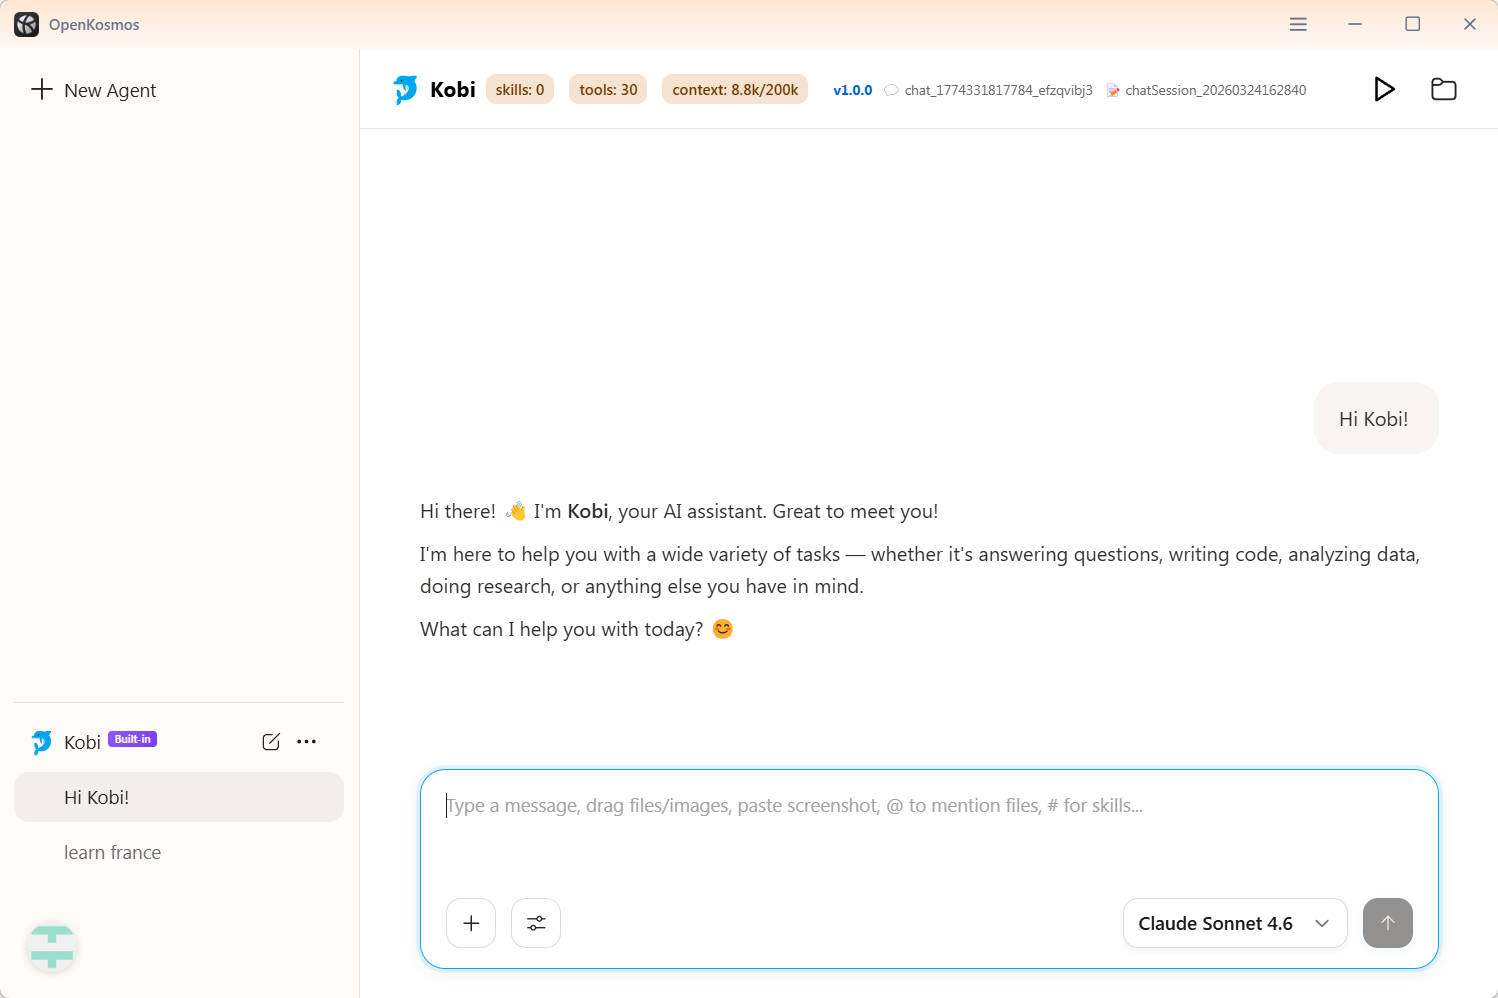
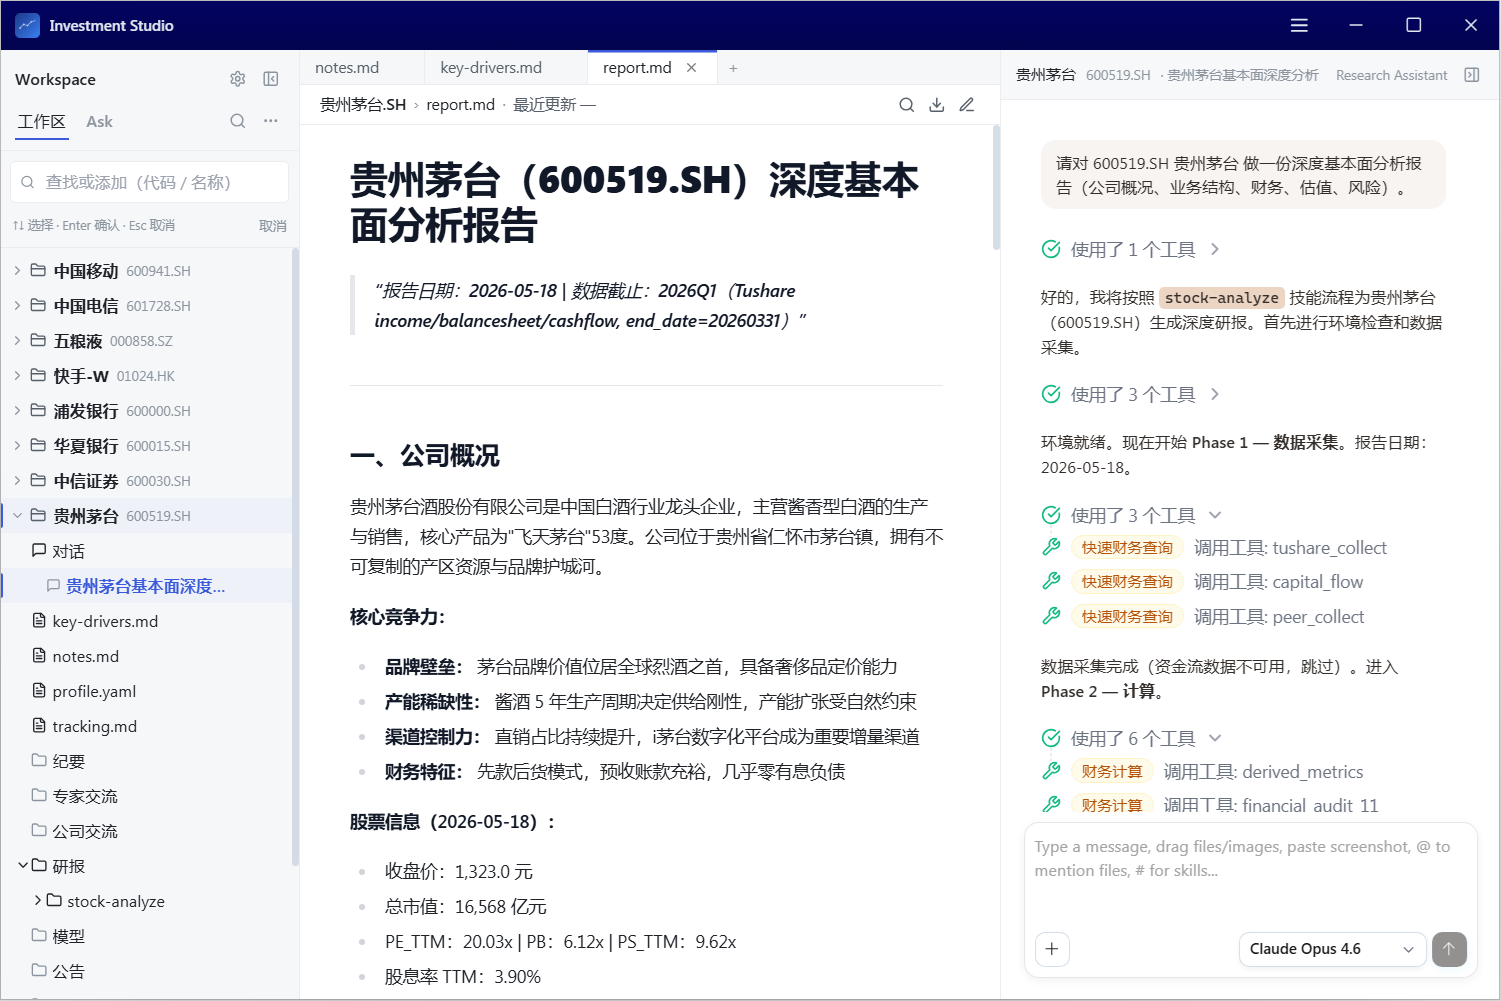
docs: simplify README and refresh screenshot
- Rewrite README to be a concise fork description: highlights, quick start, three-pane workstation overview, slash-command skill table, architecture link, dev/build/test commands, credits.
- Replace OpenKosmos screenshot with the Investment Studio three-pane UI.

diff --git a/README.md b/README.md
@@ -1,211 +1,100 @@
-# OpenKosmos
+# Investment Studio
 
-**OpenKosmos** is a local-first AI Agent Studio that empowers you to create, configure, and run personalized AI agents tailored to your own workflows — with a low-code approach that puts productivity first.
+**AI-powered investment research workstation.** Organize work by *target* (the company you're tracking), not by chat thread. Every target gets a folder on disk and a dedicated AI analyst — **Stella** — who reads, writes, and files your notes for you. Local-first, file-based, MIT-licensed.
 
-It runs entirely on your desktop, provides native access to your local files and system, and connects to the broader AI ecosystem through MCP servers, skills, and multi-model support. Whether you're automating daily tasks, building research assistants, or orchestrating complex multi-step workflows, OpenKosmos gives you a flexible, privacy-respecting platform to get it done.
+![Investment Studio Screenshot](screenshot.png)
 
-![OpenKosmos Screenshot](screenshot.png)
+## Highlights
 
-## ✨ Highlights
+- **Portfolio-first** — Research is organized by target; each target is a real folder you own.
+- **Stella, your AI analyst** — Target-bound chat that writes notes into the right folder automatically.
+- **7 research slash commands** — `/stock-analyze`, `/key-drivers`, `/earnings-review`, and more.
+- **Autosave Markdown editor** — Monaco-powered, `Ctrl+S` / `Ctrl+E` / `Esc`.
+- **Local-first** — Your data is plain files; `git`-able, portable, never locked in.
+- **MCP + multi-model** — Any MCP server; Copilot, OpenAI, Azure, Claude, Gemini, Cohere, Ollama.
+- **Cross-platform** — Windows, macOS, Linux.
 
-- 🏠 **Local-First** — Runs on your machine. Your data stays on your device.
-- 🤖 **Personalized Agents** — Create custom agents with tailored instructions, tools, knowledge bases, and skills — no coding required.
-- 🔌 **MCP Ecosystem** — Connect to any MCP server (stdio/SSE/HTTP) to extend agent capabilities with external tools and data sources.
-- 🧩 **Skills & Context** — Package reusable AI prompt templates as skills; attach knowledge bases for domain-specific context.
-- 🌐 **Multi-Model** — Switch between GitHub Copilot, OpenAI, Azure OpenAI, Google Gemini, Anthropic Claude, Cohere, and Ollama — all in one interface.
-- 🔍 **Built-in Tools** — Web search (Bing/Google), web fetch, file operations, shell commands, Office document reading, and more — out of the box.
-- 💾 **Long-Term Memory** — Semantic memory system powered by vector embeddings, so your agents remember what matters across sessions.
-- 🖥️ **Cross-Platform** — Windows, macOS, and Linux support.
+## Quick Start
 
-## Features
-
-### 🤖 Personalized Agent Studio
-- **Low-Code Agent Creation** — Configure agents through a visual editor: set system prompts, attach MCP servers, assign skills, and define knowledge bases — all without writing code.
-- **Agent Library** — Browse, import, and share agent configurations from a built-in library.
-- **Multi-Agent Workspace** — Run multiple agents in parallel chat sessions, each with its own context and tools.
-- **Smart Context Compression** — Automatically compress long conversations to keep agents responsive without losing important context.
-
-### 🔌 MCP (Model Context Protocol) Integration
-- **Universal MCP Support** — Connect to any MCP server via stdio, SSE, or HTTP transport.
-- **One-Click MCP Setup** — Add MCP servers from a curated library, or import directly from VSCode settings.
-- **30+ Built-in Tools** — Web search, web fetch, file read/write/search, shell command execution, Office document parsing, and more — available to all agents by default.
-- **Dynamic Tool Execution** — Agents autonomously discover and invoke tools during conversations, with user approval controls.
-
-### 🧩 Skills & Knowledge Management
-- **Skill Packages** — Portable prompt template archives (`.skill` / `.zip`) with metadata, installable from a library or local files.
-- **Knowledge Bases** — Attach document folders to agents for retrieval-augmented generation (RAG) with domain-specific context.
-- **Built-in Skills** — Pre-installed skills like `skill-creator` to help you build new skills from within the app.
-
-### 🌐 Multi-Model AI Support
-- **GitHub Copilot** — First-class integration with OAuth device flow authentication.
-- **Multiple Providers** — OpenAI, Azure OpenAI, Google Gemini, Anthropic Claude, Cohere, and Ollama.
-- **Model Switching** — Change models mid-conversation without losing context.
-- **Streaming Responses** — Real-time token streaming with typewriter animation for a natural feel.
-
-### 🏠 Local System Access
-- **File Operations** — Read, write, create, search, and manage files on your local filesystem.
-- **Shell Commands** — Execute terminal commands directly from agent conversations.
-- **Workspace Integration** — Attach project folders with real-time file watching and fast ripgrep-powered search.
-- **Screenshot Capture** — Multi-display screenshot with region selection, directly usable as chat input.
-
-### 🧠 Long-Term Memory
-- **Semantic Memory** — Vector-embedding-based memory powered by SQLite + sqlite-vec, stored locally.
-- **Cross-Session Recall** — Agents remember important facts, preferences, and context across conversations.
-- **Per-User Isolation** — Each user profile has its own memory store.
-- **Optional Graph Memory** — Neo4j integration for knowledge graph-based reasoning (advanced).
-
-### 🎨 Modern Desktop Experience
-- **Glass Morphism UI** — Elegant dark theme with blur effects and smooth animations.
-- **Multi-Tab Chat** — Work with multiple agents and conversations simultaneously.
-- **Voice Input** — Speech-to-text powered by Whisper, running locally with GPU acceleration.
-- **Auto-Update** — Seamless in-app updates via GitHub Releases or custom CDN.
-- **Multi-Brand Support** — Customize app name, icons, and identity for white-label deployment.
-
-## Getting Started
-
-### Prerequisites
-
-- **Node.js** 18.0.0 or later
-- **Python** 3.10 or later (for some MCP servers)
-- **GitHub Copilot** subscription (primary AI provider)
-
-### Installation
-
-1. **Clone the repository**
-   ```bash
-   git clone https://github.com/microsoft/open-kosmos.git
-   cd open-kosmos
-   ```
-
-2. **Configure environment variables**
-   ```bash
-   # Windows
-   copy .env.example .env.local
-   
-   # macOS/Linux
-   cp .env.example .env.local
-   ```
-
-3. **Install dependencies**
-   ```bash
-   npm install
-   ```
-
-4. **Rebuild native modules for Electron**
-   ```bash
-   npx electron-rebuild
-   ```
-
-   > **Build tools required**: Windows needs [VS Build Tools](https://visualstudio.microsoft.com/visual-cpp-build-tools/), macOS needs `xcode-select --install`, Linux needs `sudo apt install build-essential`.
-
-### Quick Start
+**Prereqs**: Node.js ≥ 18, Python ≥ 3.10 (some MCP servers), a GitHub Copilot subscription.
 
 ```bash
-# One-command development mode (recommended)
-npm run dev:full
-
-# Or start components separately
-npm run dev          # Terminal 1: webpack-dev-server with HMR
-npm run dev:main     # Terminal 2: Main process watch mode
-npm run electron:dev # Terminal 3: Launch Electron
+git clone https://github.com/xinchao1230/investment-studio.git
+cd investment-studio
+npm install              # Auto-rebuilds native modules*
+npm run build            # Production build
+npm run electron         # Launch — or `npm run dev:full` for HMR
 ```
 
-Production build:
-```bash
-npm run build && npm run electron
+\* Windows: [VS Build Tools](https://visualstudio.microsoft.com/visual-cpp-build-tools/) · macOS: `xcode-select --install` · Linux: `sudo apt install build-essential`.
+
+## The Three-Pane Workstation
+
+| Pane | What it holds |
+|------|---------------|
+| **Left — Portfolio** | Tracked companies (e.g. `600519.SS Kweichow Moutai`, `00700.HK Tencent`, or `Pre-IPO`). |
+| **Center — Read & Write** | Multi-tab preview/editor (Markdown, CSV, Excel). Tabs and layout persist across launches. |
+| **Right — Stella** | Target-bound chat. Switch to **Ask Stella** for global / screening questions. |
+
+Each target ships with a standard folder layout for fundamental research (Notes / Expert Calls / Company Calls / Research Reports / Models / Disclosures / Other — `纪要 · 专家交流 · 公司交流 · 研报 · 模型 · 公告 · 其它` by default for China-market workflows). Drag-and-drop files in, watch external edits via chokidar, and your portfolio root is just:
+
 ```
+{userData}/investment-studio-app/portfolio/
+  BABA_Alibaba/
+    研报/Morgan-Stanley-deep-dive.pdf
+    纪要/2025-Q3-earnings-call.md
+    key-drivers.md
+```
+
+## Built-in Research Skills
+
+Seven slash commands, invocable from any chat:
+
+| Command | What it does |
+|---------|--------------|
+| `/stock-analyze <ticker\|name>` | 6-phase deep equity report, written into the target folder |
+| `/key-drivers <ticker\|name>` | Investment framework (thesis, tracking variables, valuation, risks) |
+| `/earnings-review <ticker> <period>` | Quarterly earnings review vs. consensus |
+| `/earnings-forecast <ticker>` | Revenue/profit prediction model with editable assumptions |
+| `/marginal-tracking <ticker>` | Marginal changes in key metrics vs. last snapshot |
+| `/industry-comparison <industry\|tickers>` | Horizontal peer comparison |
+| `/stock-screening <tickers\|criteria>` | Quick fundamental screen (PE / ROE / growth) |
+
+All are regular skills — inspect, fork, or build your own with the built-in `skill-creator`.
 
 ## Architecture
 
-OpenKosmos is built on Electron with a clean multi-process architecture:
-
-```
-src/
-├── main/                # Electron main process
-│   └── lib/
-│       ├── auth/        # GitHub Copilot OAuth authentication
-│       ├── chat/        # Agent conversation engine
-│       ├── mcpRuntime/  # MCP server lifecycle & built-in tools
-│       ├── mem0/        # Long-term memory (vector + graph)
-│       ├── featureFlags/# Feature flag system
-│       ├── workspace/   # File tree & ripgrep search
-│       └── userDataADO/ # Profile & data persistence
-├── renderer/            # React 18 + TailwindCSS UI
-│   ├── components/      # Chat, agents, settings, FRE
-│   ├── atom/            # Custom atom-based state management
-│   └── lib/             # Frontend utilities
-├── shared/              # Type-safe IPC framework & constants
-└── brands/              # Multi-brand configuration
-```
-
-**Key design principles:**
-- **Type-safe IPC** — Renderer ↔ Main communication is fully typed at compile time.
-- **Lazy initialization** — All heavy managers use lazy getters for fast startup.
-- **Non-fatal errors** — Subsystem failures are logged, never crash the app.
-- **Per-profile isolation** — Auth, data, memory, and skills are scoped per user.
-
-For full architectural details, see [CLAUDE.md](./CLAUDE.md).
+Electron multi-process: a Node **main** process (auth, MCP runtime, chat engine, filesystem, memory) and a React 18 + TailwindCSS **renderer** (three-pane UI), connected by a type-safe IPC framework. For the subsystem map and build internals, see [CLAUDE.md](./CLAUDE.md).
 
 ## Development
 
-### Contributing
-
-We welcome contributions! Please open an issue or submit a pull request on [GitHub](https://github.com/microsoft/open-kosmos).
-
-### Workflow
-
 ```bash
-git switch main && git pull
-git checkout -b user/<your-alias>/<feature-name>
-# Make changes, then submit PR
-```
+# Develop
+npm run dev:full         # HMR dev mode (Vite)
 
-### Commands
+# Build
+npm run build            # Production build (main + renderer)
+npm run electron         # Launch the built app
 
-```bash
-# Development
-npm run dev:full         # Full dev mode with HMR
-npm run build            # Production build
+# Quality
+npm run typecheck        # TypeScript check
+npm run lint             # ESLint (lint:fix to auto-fix)
+npm test                 # Unit tests (Vitest)
+npm run test:e2e         # E2E tests (Playwright)
 
-# Testing & Quality
-npm test                 # Jest unit tests
-npm run test:e2e         # Playwright E2E tests
-npm run lint             # Lint check
-npm run lint:fix         # Auto-fix
-
-# Distribution
-npm run dist             # Build installer for current platform
+# Package installers (uses `npm run build` internally)
+npm run dist             # Current platform
 npm run dist:win         # Windows (NSIS + ZIP)
 npm run dist:mac         # macOS (DMG + ZIP)
 npm run dist:linux       # Linux (AppImage)
 ```
 
-## Team
+Branch convention: `user/<alias>/<feature>`. PRs and issues welcome on [GitHub](https://github.com/xinchao1230/investment-studio).
 
-### Core Team
+## License & Credits
 
-| Name | Email |
-|------|-------|
-| Yang Huangfu | [email redacted] |
-| Dale Xiao | [email redacted] |
-| Menghui Hu | [email redacted] |
-
-### Contributors
-
-| Name | Email |
-|------|-------|
-| Jiashuang Shang | [email redacted] |
-| Jianli Wei | [email redacted] |
-| Yun Ni | [email redacted] |
-| Luna Chen | [email redacted] |
-| Jiajun Yan | [email redacted] |
-| Jiaming Mao | [email redacted] |
-| Juntong Liu | [email redacted] |
-
-## License
-
-This project is licensed under the [MIT License](LICENSE).
+[MIT License](LICENSE). Built on top of the open-source **Kosmos** desktop AI agent platform (MIT, © Microsoft Corporation), which provides the agent engine, MCP runtime, multi-model integration, memory, and Electron shell. Investment Studio adds the research workstation, portfolio model, and built-in research skills. See [NOTICE](NOTICE) for third-party attributions.
 
 ## Contact
 
-For questions, bug reports, or feature requests, please open an issue on [GitHub](https://github.com/microsoft/open-kosmos/issues).
+Open an issue on [GitHub](https://github.com/xinchao1230/investment-studio/issues).